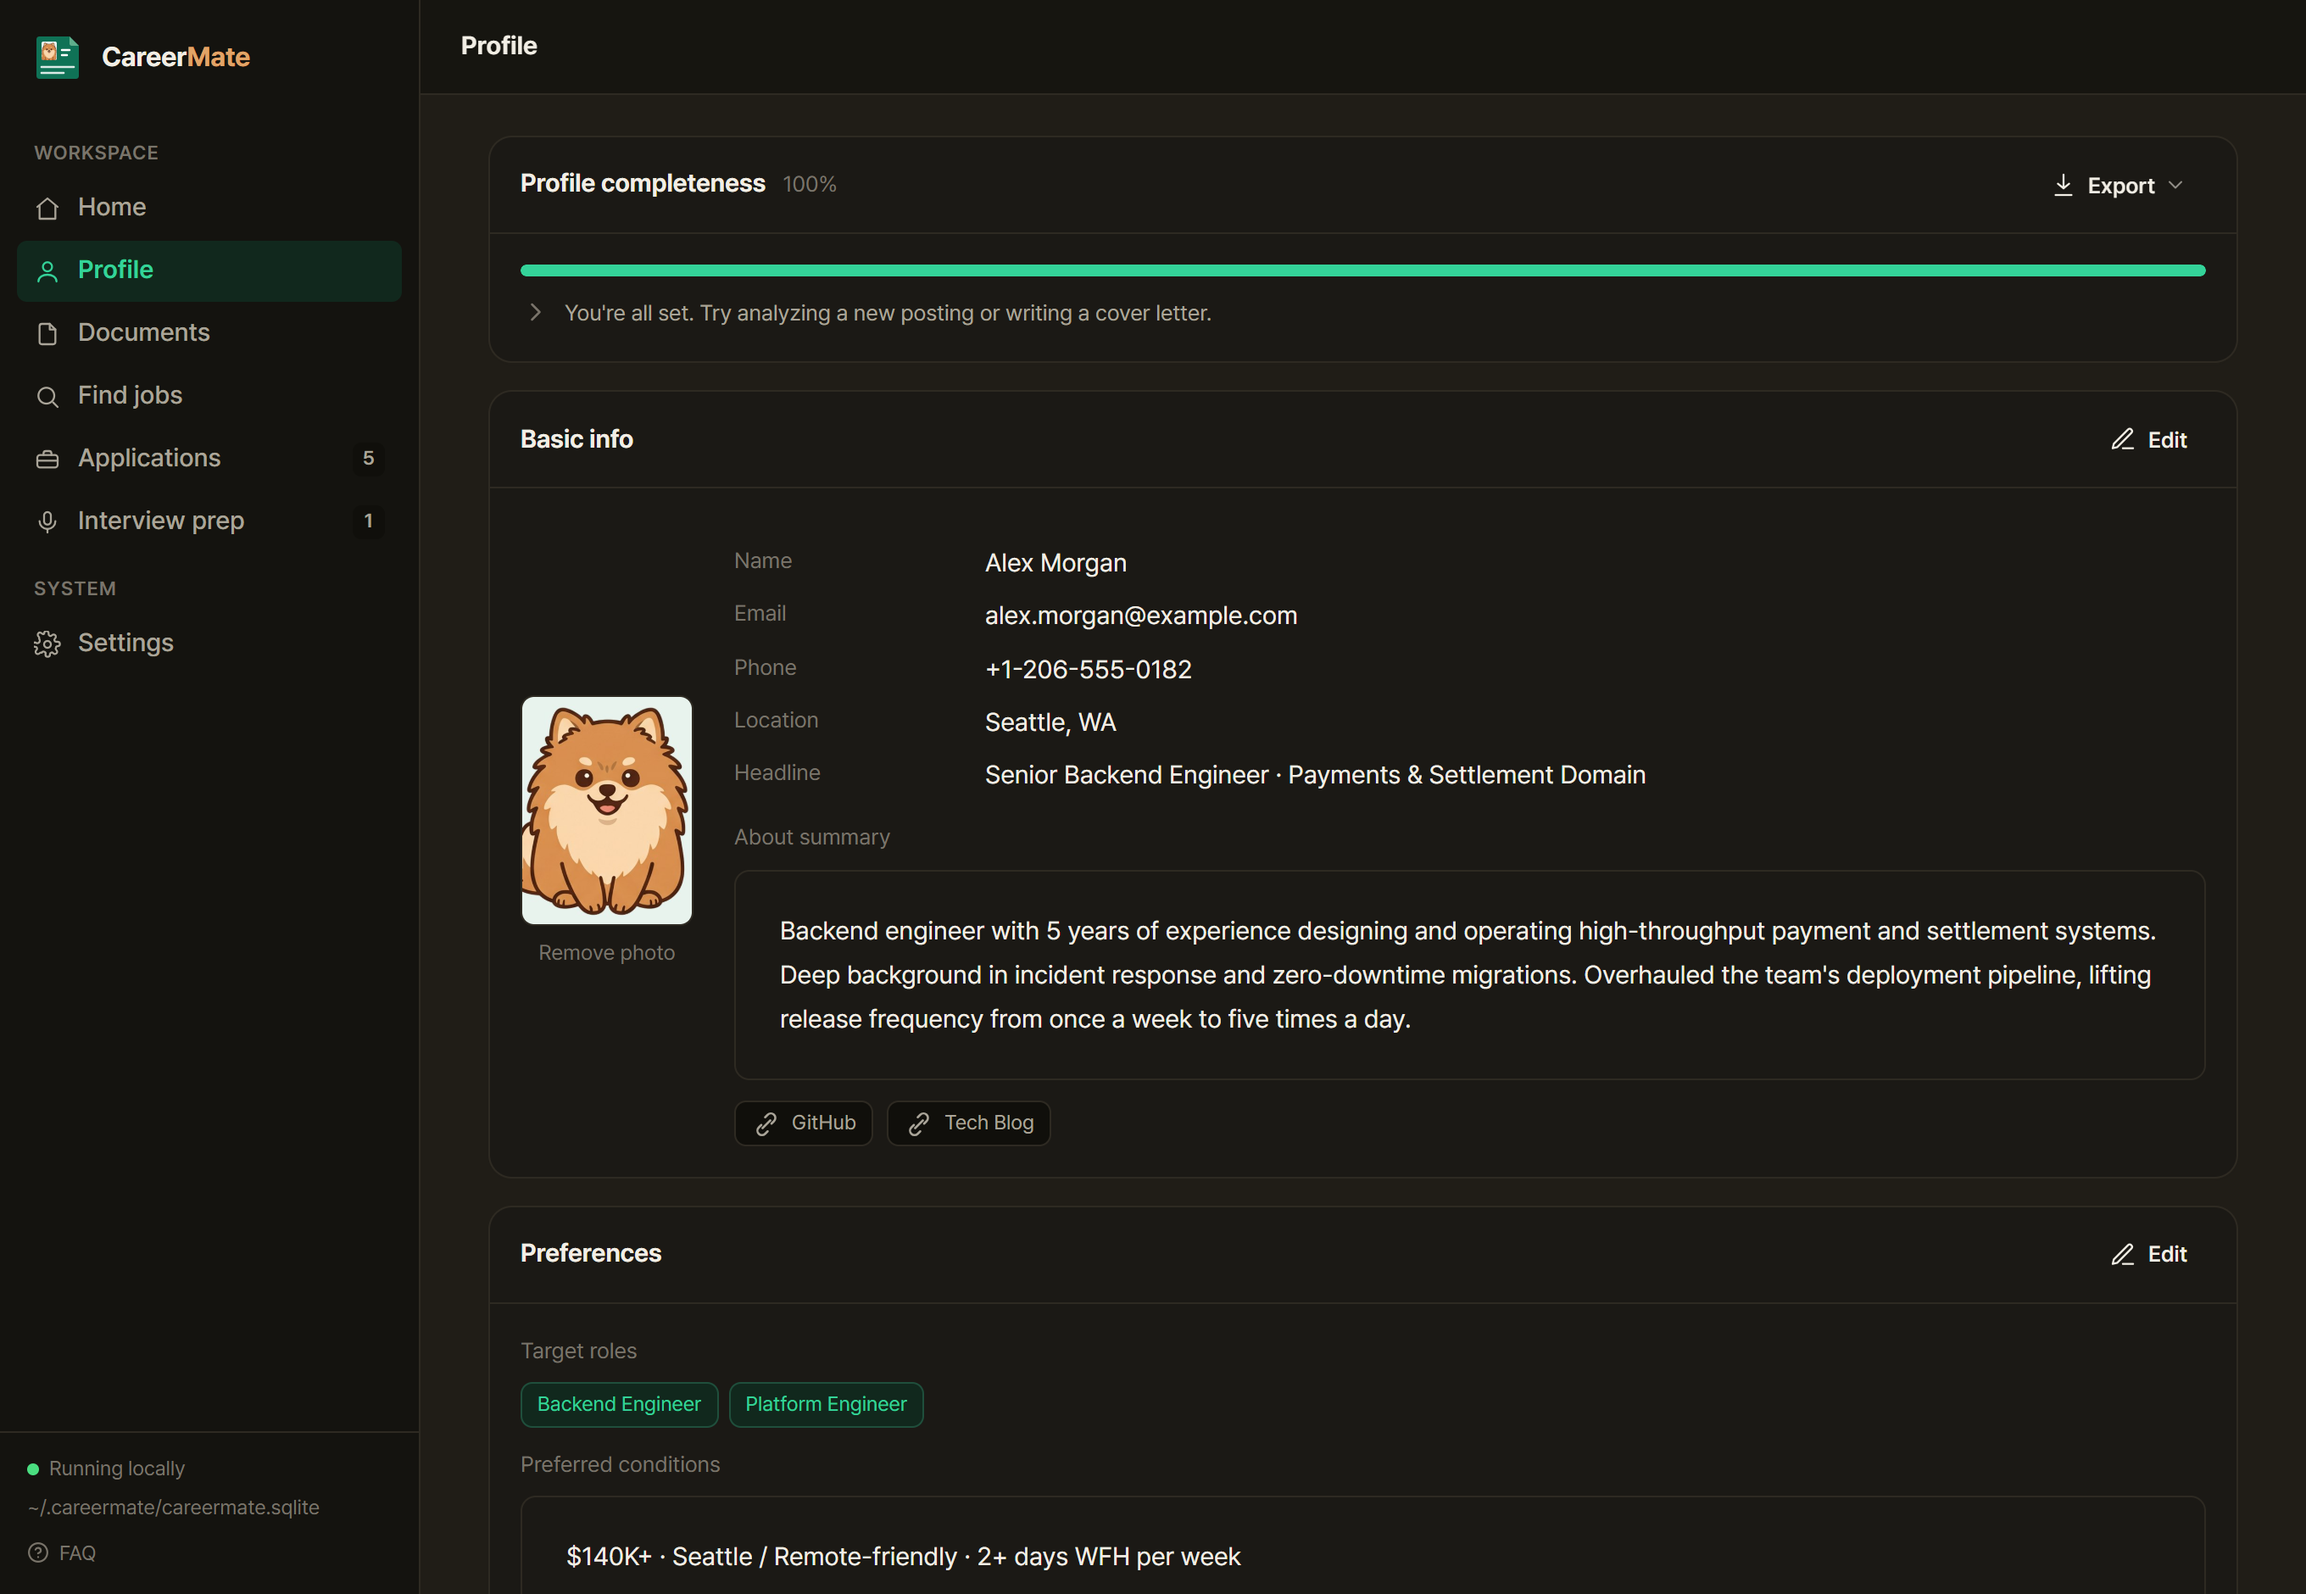
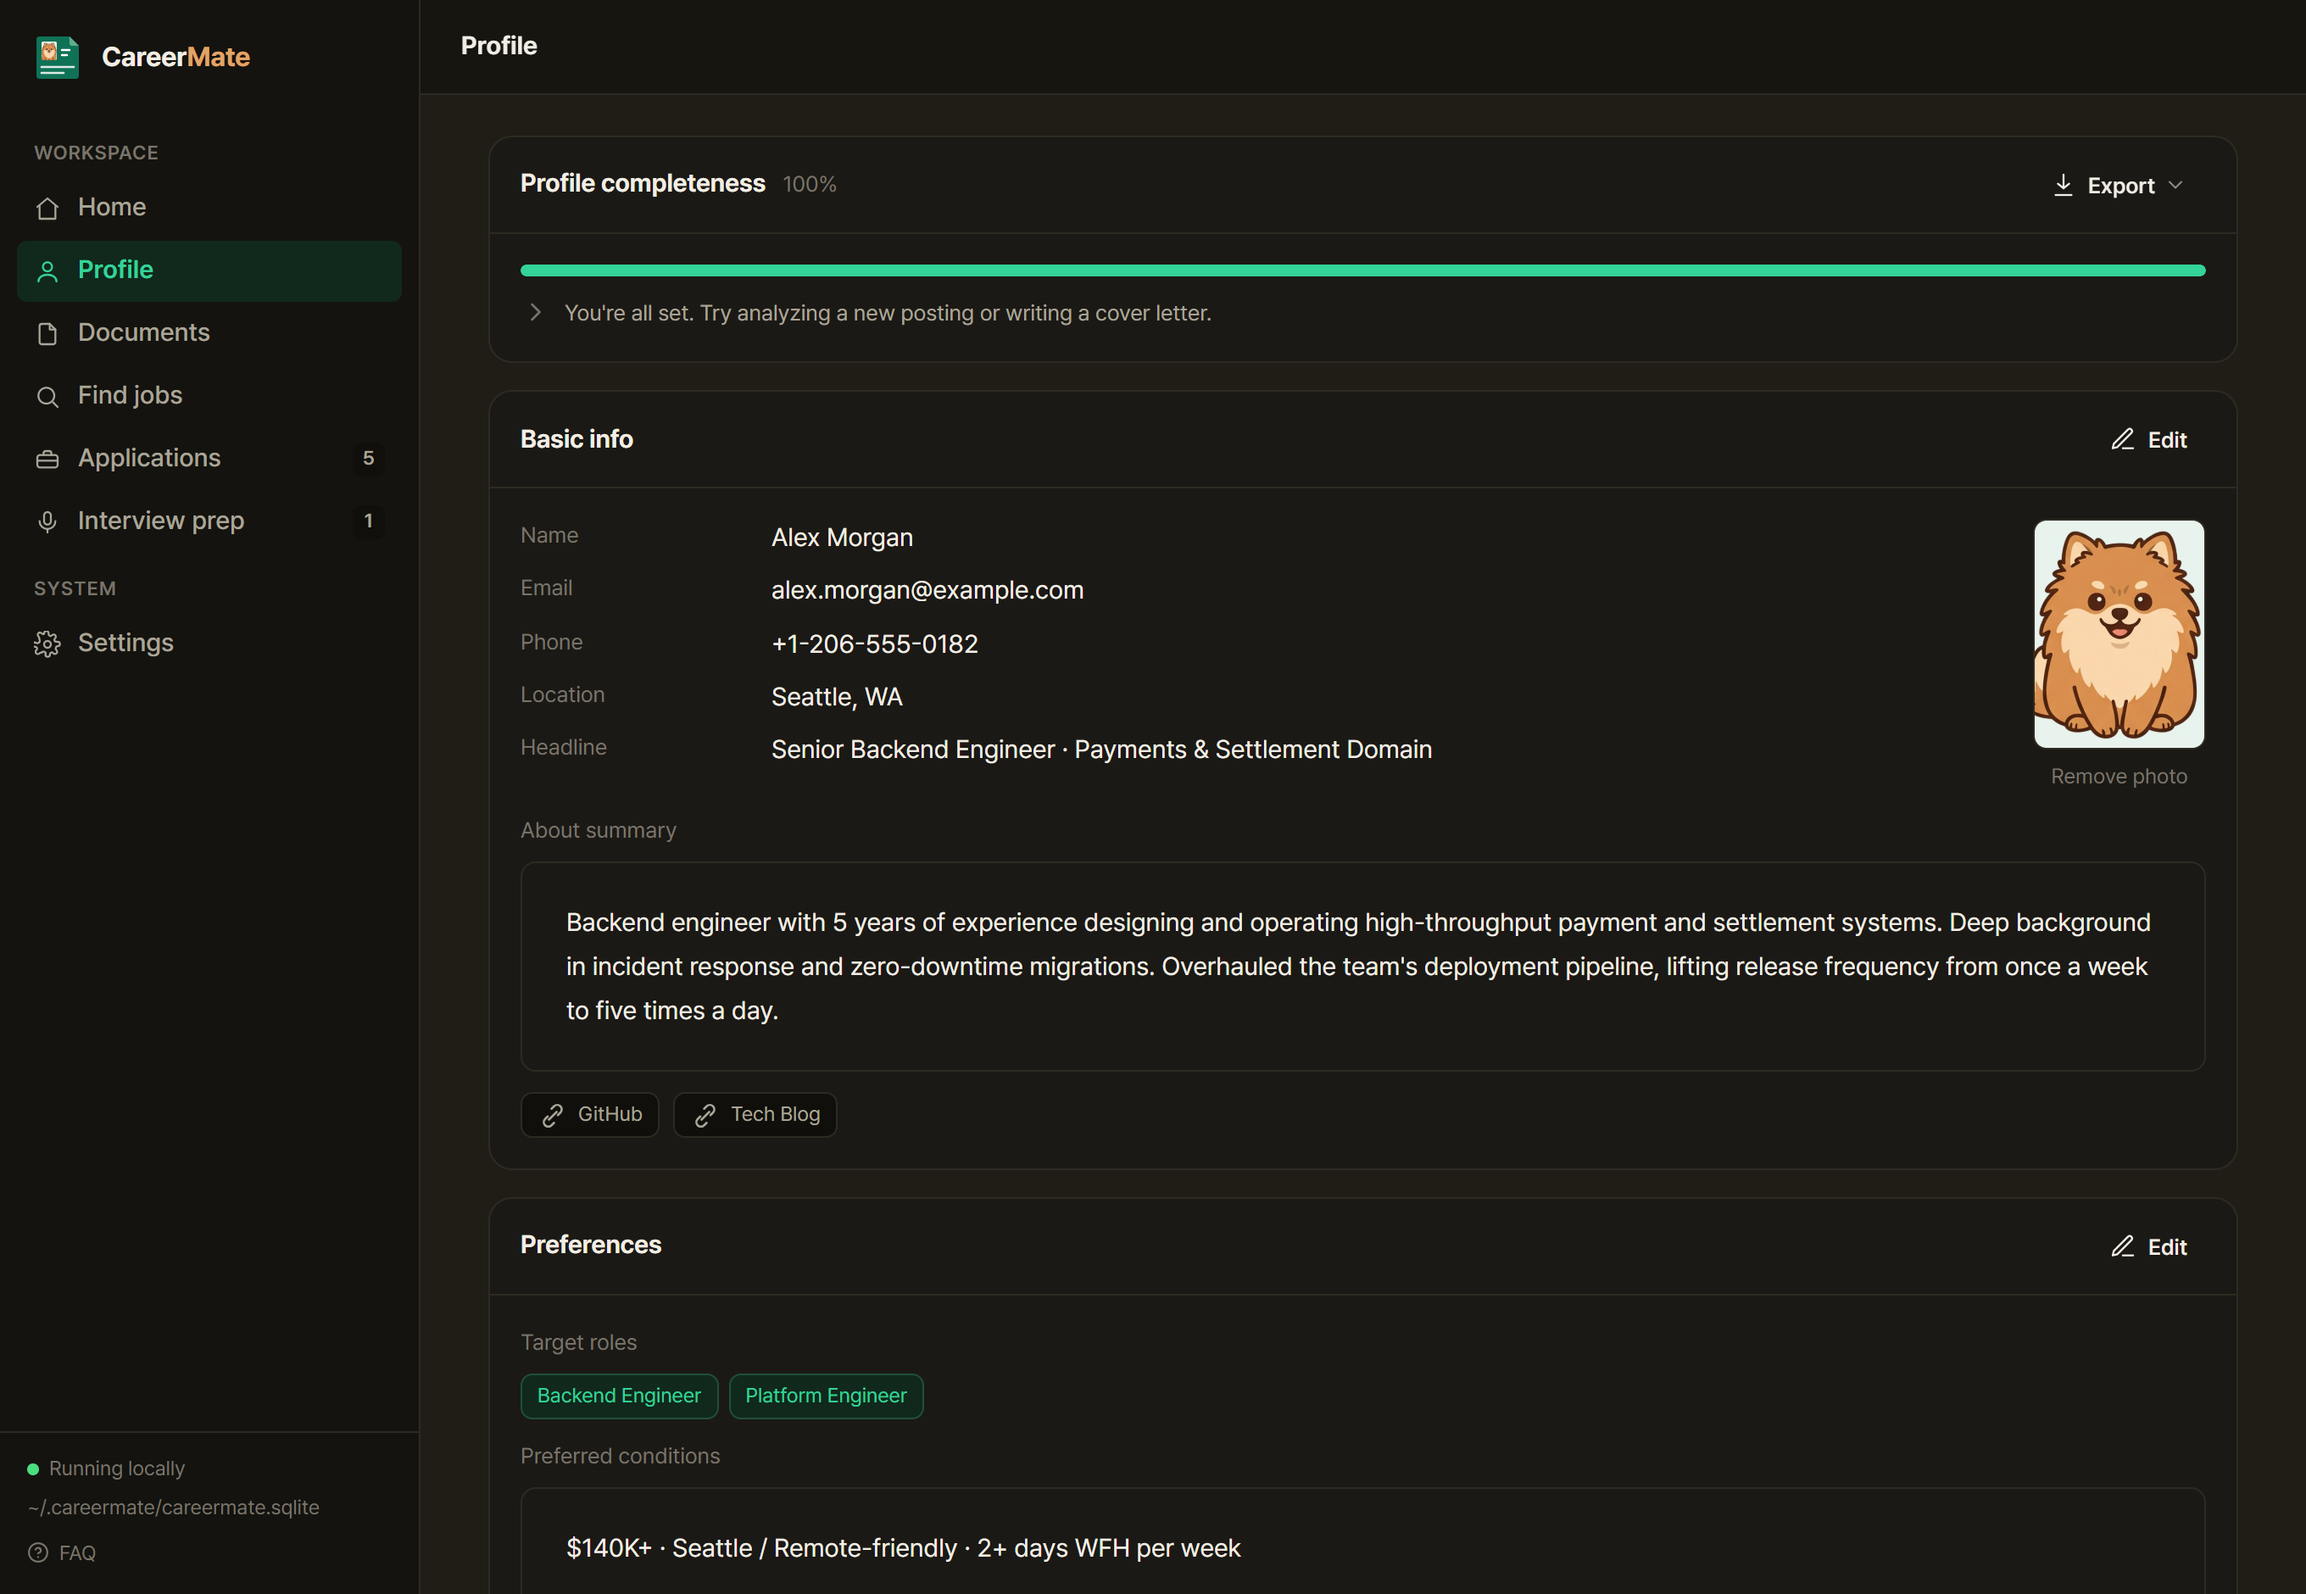
fix: profile photo sits right of the personal details
The summary runs full width below, so a long summary no longer leaves empty space beside the photo. The photo's top lines up with the first row.

diff --git a/apps/web/public/pages/profile.js b/apps/web/public/pages/profile.js
@@ -130,14 +130,18 @@ function CompletenessCard(o) {
 function BasicInfoCard(p, reload) {
   const hasAny = p.name || p.email || p.phone || p.location || p.headline || p.summary || (p.links || []).length;
 
+  // Laid out like a resume header: the personal details with the photo on their right,
+  // then the summary across the full width, so a long summary never leaves a gap by the photo.
   const body = hasAny ? [
-    kv([
-      [t('profile.basic.kv.name'), p.name],
-      [t('profile.basic.kv.email'), p.email],
-      [t('profile.basic.kv.phone'), p.phone],
-      [t('profile.basic.kv.location'), p.location],
-      [t('profile.basic.kv.headline'), p.headline],
-    ]),
+    el('div', { class: 'basic-grid' },
+      el('div', { style: { minWidth: 0 } }, kv([
+        [t('profile.basic.kv.name'), p.name],
+        [t('profile.basic.kv.email'), p.email],
+        [t('profile.basic.kv.phone'), p.phone],
+        [t('profile.basic.kv.location'), p.location],
+        [t('profile.basic.kv.headline'), p.headline],
+      ])),
+      PhotoFrame(p, reload)),
     p.summary ? el('div', { class: 'mt-3' },
       el('div', { class: 'muted text-sm mb-2' }, t('profile.basic.summaryLabel')),
       el('div', { class: 'doc-preview' }, p.summary)) : null,
@@ -152,11 +156,10 @@ function BasicInfoCard(p, reload) {
     action: Btn(t('profile.basic.empty.action'), { icon: 'edit', variant: 'primary', onClick: () => editBasic(p, reload) }),
   });
 
-  // Once filled, laid out like a resume header: the photo beside the personal details.
   return Card({
     title: t('profile.basic.title'),
     actions: hasAny ? Btn(t('profile.basic.edit'), { icon: 'edit', sm: true, variant: 'ghost', onClick: () => editBasic(p, reload) }) : null,
-    body: hasAny ? el('div', { class: 'basic-grid' }, PhotoFrame(p, reload), el('div', { style: { minWidth: 0 } }, ...body)) : body,
+    body: hasAny ? el('div', {}, ...body) : body,
   });
 }
 

diff --git a/site/demo/pages/profile.js b/site/demo/pages/profile.js
@@ -130,14 +130,18 @@ function CompletenessCard(o) {
 function BasicInfoCard(p, reload) {
   const hasAny = p.name || p.email || p.phone || p.location || p.headline || p.summary || (p.links || []).length;
 
+  // Laid out like a resume header: the personal details with the photo on their right,
+  // then the summary across the full width, so a long summary never leaves a gap by the photo.
   const body = hasAny ? [
-    kv([
-      [t('profile.basic.kv.name'), p.name],
-      [t('profile.basic.kv.email'), p.email],
-      [t('profile.basic.kv.phone'), p.phone],
-      [t('profile.basic.kv.location'), p.location],
-      [t('profile.basic.kv.headline'), p.headline],
-    ]),
+    el('div', { class: 'basic-grid' },
+      el('div', { style: { minWidth: 0 } }, kv([
+        [t('profile.basic.kv.name'), p.name],
+        [t('profile.basic.kv.email'), p.email],
+        [t('profile.basic.kv.phone'), p.phone],
+        [t('profile.basic.kv.location'), p.location],
+        [t('profile.basic.kv.headline'), p.headline],
+      ])),
+      PhotoFrame(p, reload)),
     p.summary ? el('div', { class: 'mt-3' },
       el('div', { class: 'muted text-sm mb-2' }, t('profile.basic.summaryLabel')),
       el('div', { class: 'doc-preview' }, p.summary)) : null,
@@ -152,11 +156,10 @@ function BasicInfoCard(p, reload) {
     action: Btn(t('profile.basic.empty.action'), { icon: 'edit', variant: 'primary', onClick: () => editBasic(p, reload) }),
   });
 
-  // Once filled, laid out like a resume header: the photo beside the personal details.
   return Card({
     title: t('profile.basic.title'),
     actions: hasAny ? Btn(t('profile.basic.edit'), { icon: 'edit', sm: true, variant: 'ghost', onClick: () => editBasic(p, reload) }) : null,
-    body: hasAny ? el('div', { class: 'basic-grid' }, PhotoFrame(p, reload), el('div', { style: { minWidth: 0 } }, ...body)) : body,
+    body: hasAny ? el('div', {}, ...body) : body,
   });
 }
 

diff --git a/apps/web/public/styles.css b/apps/web/public/styles.css
@@ -536,9 +536,12 @@ h1,h2,h3,h4 { margin: 0; font-weight: 650; letter-spacing: -0.01em; }
 .menu__item-label { flex: 1; }
 .menu__item-hint { color: var(--text-tertiary); font-size: 11.5px; font-variant-numeric: tabular-nums; }
 .menu__item--danger { color: var(--red); }
-.basic-grid { display: grid; grid-template-columns: auto minmax(0, 1fr); gap: 24px; align-items: center; }
+.basic-grid { display: grid; grid-template-columns: minmax(0, 1fr) auto; gap: 24px; align-items: start; }
 .photo-col { display: flex; flex-direction: column; align-items: center; gap: 6px; }
-@media (max-width: 520px) { .basic-grid { grid-template-columns: 1fr; } .photo-col { align-items: flex-start; } }
+/* the photo's top lines up with the first row ("이름"): drop the list's default and first-row margins */
+.basic-grid .kv { margin: 0; }
+.basic-grid .kv dt:first-child { margin-top: 0; }
+@media (max-width: 520px) { .basic-grid { gap: 12px; } }
 .photo-frame { position: relative; flex: none; width: 102px; height: 136px; padding: 0; border-radius: 8px; border: 1px solid var(--border); background: var(--surface-hover); overflow: hidden; cursor: pointer; display: flex; flex-direction: column; align-items: center; justify-content: center; gap: 6px; color: var(--text-secondary); font: inherit; font-size: 12px; }
 .photo-frame img { width: 100%; height: 100%; object-fit: cover; display: block; }
 .photo-frame__overlay { position: absolute; inset: auto 0 0 0; padding: 5px 0; background: rgba(0, 0, 0, .55); color: #fff; font-size: 12px; opacity: 0; transition: opacity .15s; }

diff --git a/site/demo/styles.css b/site/demo/styles.css
@@ -536,9 +536,12 @@ h1,h2,h3,h4 { margin: 0; font-weight: 650; letter-spacing: -0.01em; }
 .menu__item-label { flex: 1; }
 .menu__item-hint { color: var(--text-tertiary); font-size: 11.5px; font-variant-numeric: tabular-nums; }
 .menu__item--danger { color: var(--red); }
-.basic-grid { display: grid; grid-template-columns: auto minmax(0, 1fr); gap: 24px; align-items: center; }
+.basic-grid { display: grid; grid-template-columns: minmax(0, 1fr) auto; gap: 24px; align-items: start; }
 .photo-col { display: flex; flex-direction: column; align-items: center; gap: 6px; }
-@media (max-width: 520px) { .basic-grid { grid-template-columns: 1fr; } .photo-col { align-items: flex-start; } }
+/* the photo's top lines up with the first row ("이름"): drop the list's default and first-row margins */
+.basic-grid .kv { margin: 0; }
+.basic-grid .kv dt:first-child { margin-top: 0; }
+@media (max-width: 520px) { .basic-grid { gap: 12px; } }
 .photo-frame { position: relative; flex: none; width: 102px; height: 136px; padding: 0; border-radius: 8px; border: 1px solid var(--border); background: var(--surface-hover); overflow: hidden; cursor: pointer; display: flex; flex-direction: column; align-items: center; justify-content: center; gap: 6px; color: var(--text-secondary); font: inherit; font-size: 12px; }
 .photo-frame img { width: 100%; height: 100%; object-fit: cover; display: block; }
 .photo-frame__overlay { position: absolute; inset: auto 0 0 0; padding: 5px 0; background: rgba(0, 0, 0, .55); color: #fff; font-size: 12px; opacity: 0; transition: opacity .15s; }
